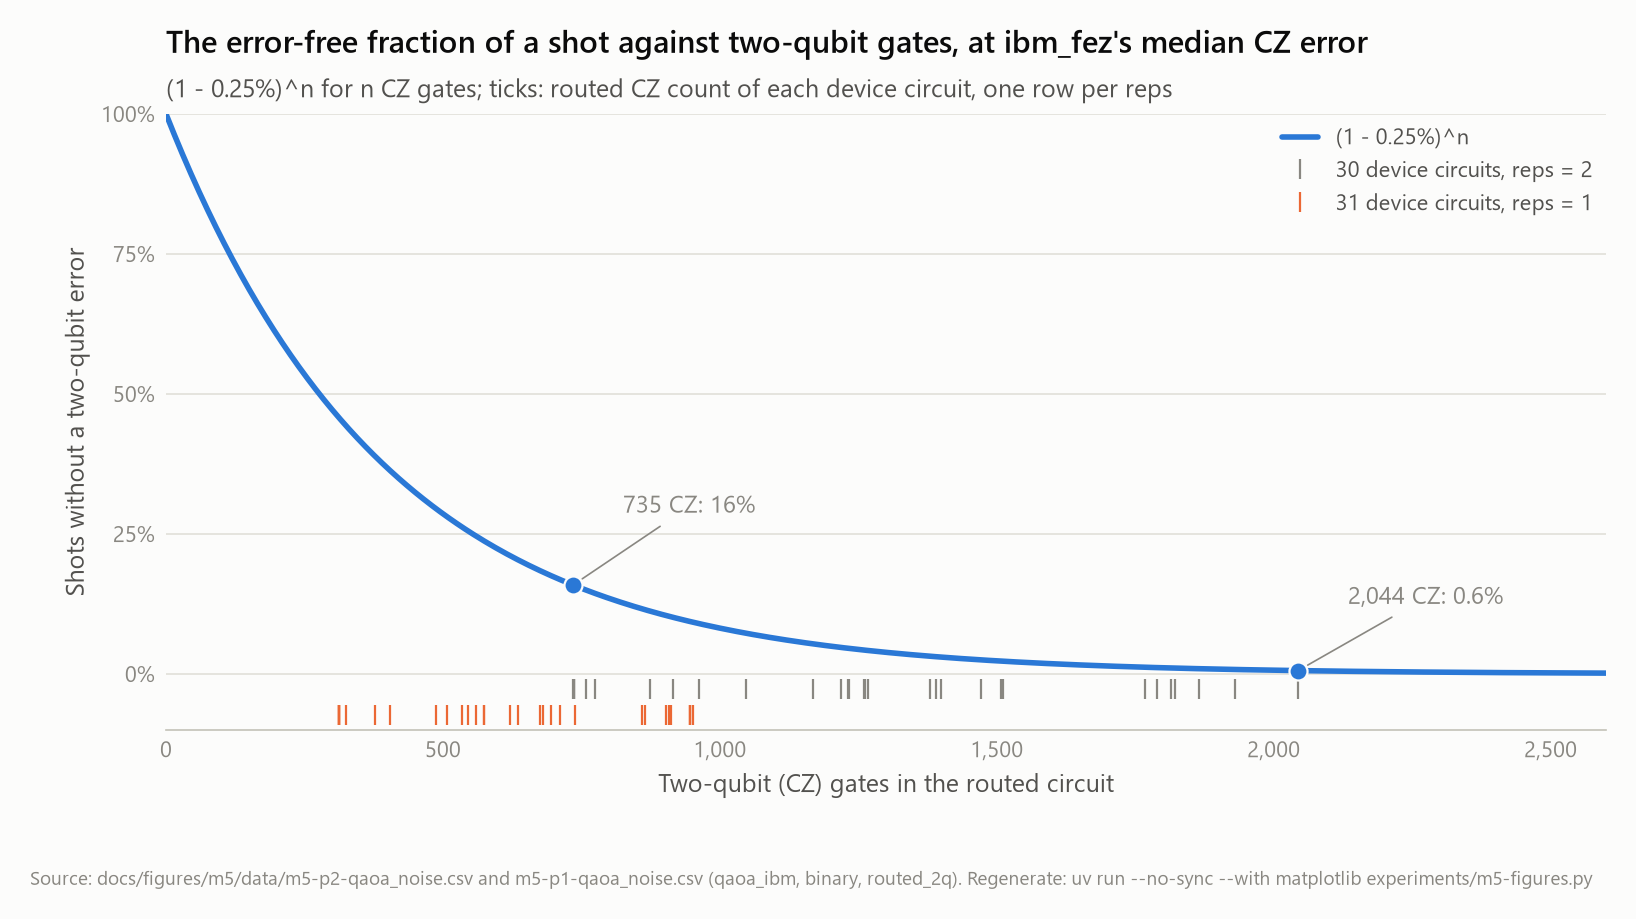
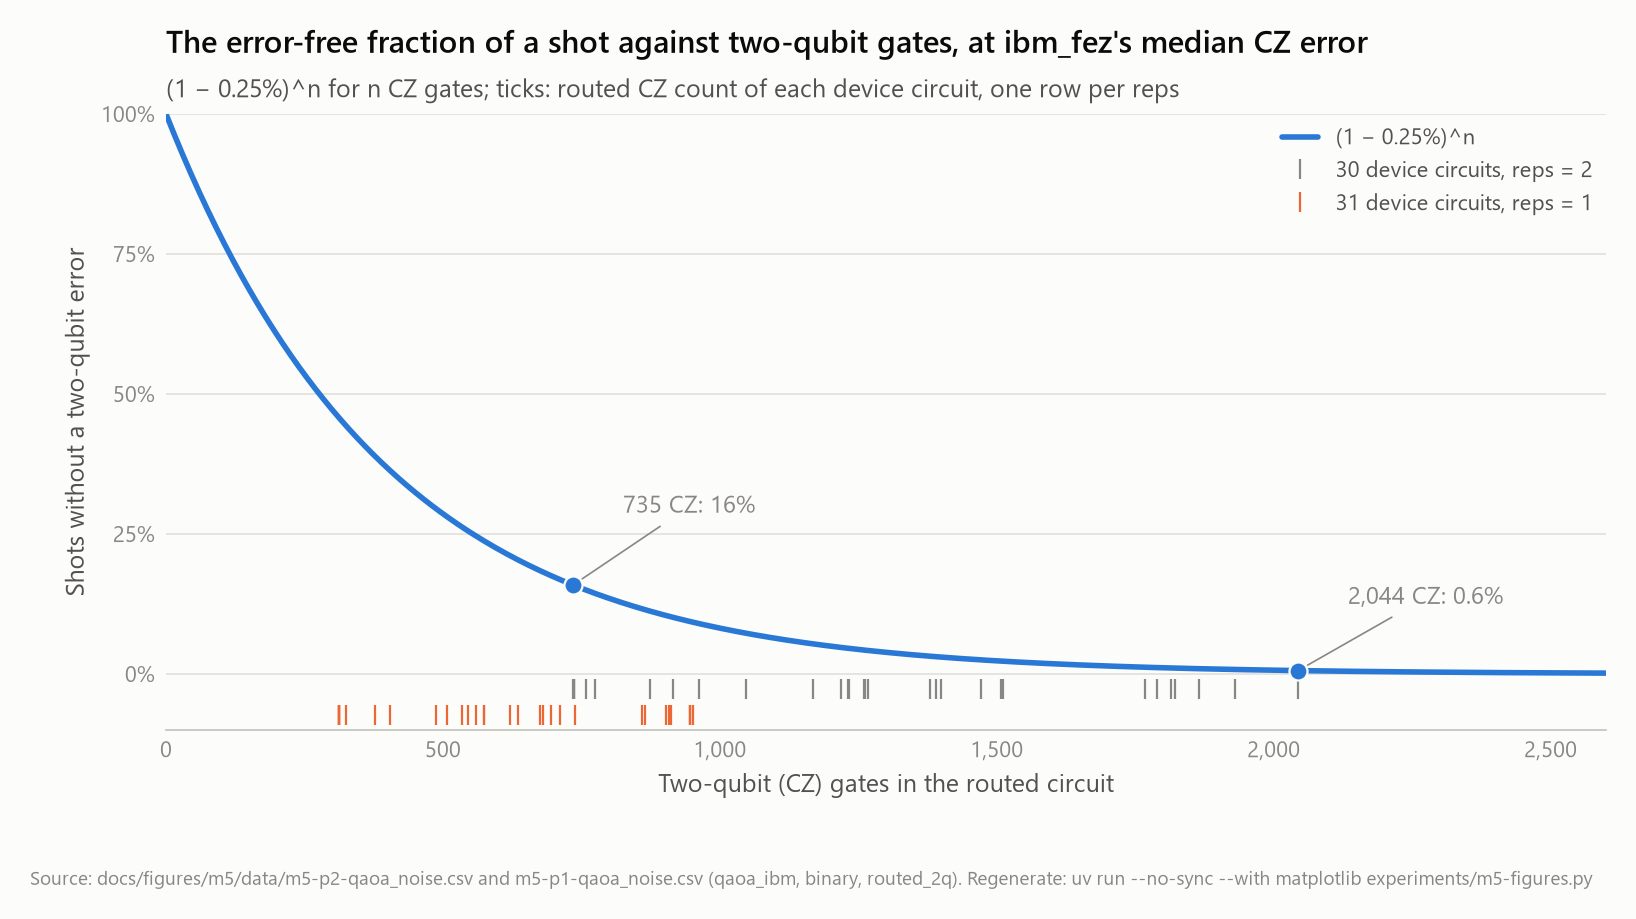
fix(experiments): the M5 figures after an independent fact-check
Captions and labels now say what the data show.

- training cost: the hairline sits at HiGHS's 1 s budget. The 0.24-0.40 s
  it replaced were cell means, not proofs; single runs take 0.03-1.0 s and
  one stops at the budget unproven. Every training is slower than HiGHS on
  its own instance, at least 8 times at reps = 2 and 2 times at reps = 1.
- noise ladder: tied successes are offset by backend so that none hides
  under another, the reps = 1 hairline label no longer covers a point, and
  the noise model lies between the backends on average, not instance by
  instance.
- reps compare: rows that tie on both CZ counts are ordered by name, so
  the figure no longer changes with hash randomisation.
- M4 crossover: margins of 1.16 to 1.2e5 on the exact methods' cells, not
  "one to four orders of magnitude"; "venue minimum" as in the text.
- TTS99 at T0: the caption's leftover fact-check aside is replaced by what
  the figure shows, including tabu at 1,000 reads right of the device.
- uniform baseline, per-instance hardware: the device sits a median 2.1
  times above uniform, three instances at 10-33 times.
- QPU ledger, error-free curve, dynamic range: the per-job limit falls to
  40-57 s for the last nine jobs; readout 1.0-1.1%; minus signs, en dashes
  and no raw column name in the drawn text.

Changed region(s): [[0.1247, 0.0914, 0.717, 0.1219], [0.8417, 0.1219, 0.904, 0.1828]]

diff --git a/experiments/m5_figures/fig_training_cost.py b/experiments/m5_figures/fig_training_cost.py
@@ -1,21 +1,23 @@
 """Training the angles: seconds per QUBO against qubit count.
 
-Caption. Wall-clock seconds to train the QAOA angles of one QUBO (``train_s``)
-against its qubit count (``n_vars``), from ``m5-p2-qaoa_training.csv``. Every
-training is a blue point: the 47 reps = 2 QUBOs of the M5 study, 31 binary and
-16 domain-wall, drawn with the same marker and spread sideways where several
-share a qubit count and a similar time; the line joins the median at each qubit
-count. The y axis is logarithmic, labelled in seconds, minutes, hours and days.
-Training is COBYLA with 200 evaluations of an exact-statevector CVaR at
-alpha = 0.25; 45 of the 47 trainings used all 200 evaluations. Read it as an
-exponential: the median grows about 2.3x per added qubit, from 6 s at 16 qubits
-to 66 min at 24. The hollow marker at 28 qubits is the study's dry run, not a
-training: 413 s per evaluation x 200 evaluations = 23 h and 20 GB of
-statevector, so it was not run. The gray hairline at 0.4 s is the classical
-reference: HiGHS proves the optimum of every one of these instances in under
-0.4 s. The reps = 1 rung's 47 trainings (``m5-p1-qaoa_training.csv``) are drawn
-the same way in orange: 3.6 h in all against 17.3 h at reps = 2, a median of 0.8 s at
-16 qubits and 16 min at 24, and COBYLA stopped before its 200 evaluations in 46 of
+Caption. Wall-clock seconds to train the QAOA angles of one QUBO (``train_s``) against
+its qubit count (``n_vars``), from ``m5-p2-qaoa_training.csv``. Every training is a blue
+point: the 47 reps = 2 QUBOs of the M5 study, 31 binary and 16 domain-wall, drawn with
+the same marker and spread sideways where several share a qubit count and a similar
+time; the line joins the median at each qubit count. The y axis is logarithmic, labelled
+in seconds, minutes, hours and days. Training is COBYLA with 200 evaluations of an
+exact-statevector CVaR at alpha = 0.25; 45 of the 47 trainings used all 200 evaluations.
+Read it as an exponential: the median grows about 2.3x per added qubit, from 6 s at 16
+qubits to 66 min at 24. The hollow marker at 28 qubits is the study's dry run, not a
+training: 413 s per evaluation x 200 evaluations = 23 h and 20 GB of statevector, so it
+was not run. The gray hairline at 1 s is the classical reference: HiGHS, at its 1 s
+budget, has every one of these instances within 1% of the optimum in at most 1.0 s (cell
+means 0.24-0.40 s; one run stopped at the budget without a proof), and every training
+takes longer than HiGHS on the same instance, at least 8 times longer at reps = 2 and 2
+times at reps = 1, each against its own store's HiGHS (1.2 against the reps = 2 store's).
+The reps = 1 rung's 47 trainings (``m5-p1-qaoa_training.csv``) are
+drawn the same way in orange: 3.6 h in all against 17.3 h at reps = 2, a median of 0.8 s
+at 16 qubits and 16 min at 24, and COBYLA stopped before its 200 evaluations in 46 of
 the 47 (31 to 146 evaluations), where at reps = 2 it ran out of evaluations in 45.
 """
 
@@ -43,8 +45,9 @@ DRY_RUN_EVALS = 200
 DRY_RUN_GB = 20
 DRY_RUN_S = DRY_RUN_S_PER_EVAL * DRY_RUN_EVALS  # 82,600 s
 
-# HiGHS proves the optimum of every M5 instance within this wall-clock bound.
-HIGHS_PROOF_S = 0.4
+# HiGHS at its 1 s budget has every M5 instance within 1% of the optimum within this bound
+# (slowest run 1.005 s; m5-p2-cells.csv and the stores).
+HIGHS_PROOF_S = 1.0
 
 X_LIM = (14.8, 28.9)
 Y_LIM = (0.2, 2.5e5)
@@ -143,7 +146,8 @@ def make(data: dict[str, pl.DataFrame], out: Path) -> list[Path]:
     # the 16-qubit swarm, which reaches down to this line at reps = 1.
     ax.axhline(HIGHS_PROOF_S, color=style.CLASSICAL, linewidth=0.8, zorder=1)
     ax.text(16.75, HIGHS_PROOF_S * 1.15,
-            f"HiGHS proves the optimum of every instance in under {HIGHS_PROOF_S} s",
+            f"HiGHS, 1 s budget: every instance within 1% of its optimum in at most "
+            f"{HIGHS_PROOF_S:.1f} s",
             ha="left", va="bottom", fontsize=8, color=style.MUTED, zorder=4)
 
     # The dry run at 28 qubits: a hollow marker, annotated to its left.

diff --git a/experiments/m5_figures/fig_noise_ladder.py b/experiments/m5_figures/fig_noise_ladder.py
@@ -18,7 +18,10 @@ column marks the deepest circuit on which any device job found the optimum. How 
 it: noiselessly, success falls with depth because depth tracks the qubit count; on the
 device, every success sits at or left of the hairline (1,233 CZ at reps = 2, 378 at
 reps = 1), and the reps = 1 circuits sit about half as deep, 313 to 952 CZ against 735 to
-2,044. The noise model lies between the noiseless circuit and the device in both columns.
+2,044. On average the noise model lies between the noiseless circuit and the device in both
+columns (instance by instance it does not always). In the success panels every point is
+offset vertically by its backend (noiseless up, device down, by 0.03) so that ties stay
+visible.
 """
 
 from __future__ import annotations
@@ -42,6 +45,9 @@ BACKENDS = [("qaoa_ideal", style.NOISELESS), ("qaoa_noisy", style.NOISE_MODEL),
 FLOOR = 1e-4  # where a zero feasibility is drawn, hollow
 X_LIM = (200, 2150)
 SIZE = 5.5
+# Vertical offsets in the success panels, so that equal values stay visible (ties are common:
+# the device's success is a multiple of 1/3 or 0/1, and many instances sit at 0 or 1).
+DODGE = {"qaoa_ideal": 0.03, "qaoa_noisy": 0.0, "qaoa_ibm": -0.03}
 
 
 def _ladder(noise: pl.DataFrame) -> pl.DataFrame:
@@ -58,7 +64,8 @@ def _column(ax_s, ax_f, frame: pl.DataFrame, label: str) -> None:
     for solver, color in BACKENDS:
         rows = frame.filter(pl.col("solver") == solver)
         name = style.NAMES[solver]
-        ax_s.plot(rows["cz"].to_list(), rows["p_success_0.01"].to_list(), label=name,
+        ax_s.plot(rows["cz"].to_list(), [v + DODGE[solver] for v in rows["p_success_0.01"]],
+                  label=name,
                   **style.marker_kw(color, "o", SIZE))
         some = rows.filter(pl.col("feasibility") > 0)
         none = rows.filter(pl.col("feasibility") == 0)
@@ -74,7 +81,7 @@ def _column(ax_s, ax_f, frame: pl.DataFrame, label: str) -> None:
         # Left of the line where the column has room (reps = 2), else right of it (reps = 1):
         # the two spots that stay clear of the points.
         left = last - X_LIM[0] > 700
-        ax_s.annotate(f"deepest device success:\n{last:,.0f} CZ", (last, 0.86 if left else 0.62),
+        ax_s.annotate(f"deepest device success:\n{last:,.0f} CZ", (last, 0.86 if left else 0.72),
                       xytext=(-5 if left else 5, 0), textcoords="offset points",
                       ha="right" if left else "left", va="center", fontsize=7.5,
                       color=style.MUTED, linespacing=1.2)
@@ -95,7 +102,7 @@ def make(data: dict[str, pl.DataFrame], out: Path) -> list[Path]:
         _column(axes[0][j], axes[1][j], frame, label)
 
     for ax in axes[0]:
-        ax.set_ylim(-0.05, 1.05)
+        ax.set_ylim(-0.08, 1.08)
         ax.yaxis.set_major_locator(FixedLocator([0.0, 0.25, 0.5, 0.75, 1.0]))
         ax.yaxis.set_major_formatter(FixedFormatter(["0", "25%", "50%", "75%", "100%"]))
         style.finish(ax, grid="y")

diff --git a/experiments/m5_figures/fig_reps_compare.py b/experiments/m5_figures/fig_reps_compare.py
@@ -3,7 +3,8 @@
 Caption. One row per binary-encoded T0 instance that ran on ibm_fez at either depth (31:
 the 30 of reps = 2 and ``D2+D4-2030``, whose reps = 2 gate run was killed, so it ran on the
 device at reps = 1 only), labelled dials-seed and sorted by the routed CZ count of its
-reps = 2 device circuit, shallowest at the top (``D2+D4-2030`` last). In each of the three
+reps = 2 device circuit, shallowest at the top (``D2+D4-2030`` last; ties go by the
+reps = 1 count, then by name). In each of the three
 panels the x axis is success at epsilon = 1%, the share of runs whose best feasible sample
 is within 1% of the proven optimum; the filled marker is reps = 2
 (``m5-p2-qaoa_noise.csv``), the hollow one reps = 1 (``m5-p1-qaoa_noise.csv``), joined by
@@ -14,10 +15,11 @@ reps = 1, so the markers sit at 0, 1/3, 2/3, 1 and at 0 or 1. The panel titles g
 mean success over the instances present at both depths. The right-hand column gives the
 routed CZ count of each device circuit, reps = 2 then reps = 1. How to read it: halving the
 depth halves the CZ count (735-2,044 to 313-952) and costs the noiseless circuit about a
-quarter of its success (mean 0.45 to 0.35 on the 31 instances), while on the device
+fifth of its success (mean 0.45 to 0.35 on the 31 instances), while on the device
 the reps = 1 successes sit on four instances of 313-325 CZ gates and one of 378, where
 reps = 2 had succeeded on 8 instances of 735 to 1,233 gates; the device's mean success
-over the 30 shared instances goes from 0.12 (three jobs each) to 0.17 (one job each).
+over the 30 shared instances goes from 0.12 (three jobs each) to 0.17 (one job each),
+a difference within shot noise.
 """
 
 from __future__ import annotations
@@ -63,7 +65,7 @@ def make(data: dict[str, pl.DataFrame], out: Path) -> list[Path]:
     two, one = _success(data["m5-p2-qaoa_noise"]), _success(data["m5-p1-qaoa_noise"])
     cz2, cz1 = _cz(two), _cz(one)
     instances = sorted(set(cz2) | set(cz1),
-                       key=lambda k: (k not in cz2, cz2.get(k, 0.0), cz1.get(k, 0.0)))
+                       key=lambda k: (k not in cz2, cz2.get(k, 0.0), cz1.get(k, 0.0), k))
     y_of = {k: i for i, k in enumerate(instances)}
     n = len(instances)
 
@@ -101,8 +103,8 @@ def make(data: dict[str, pl.DataFrame], out: Path) -> list[Path]:
     axes[1].set_xlabel("runs within 1% of the optimum")
     # The CZ counts of the device circuits, right of the device panel: reps 2 -> reps 1.
     for k, y in y_of.items():
-        a = f"{cz2[k]:,.0f}" if k in cz2 else "-"
-        b = f"{cz1[k]:,.0f}" if k in cz1 else "-"
+        a = f"{cz2[k]:,.0f}" if k in cz2 else "—"
+        b = f"{cz1[k]:,.0f}" if k in cz1 else "—"
         axes[2].annotate(f"{a} → {b}", (1.0, y), xycoords=("axes fraction", "data"),
                          xytext=(8, 0), textcoords="offset points", ha="left", va="center",
                          fontsize=7, color=style.MUTED)

diff --git a/experiments/m5_figures/fig_error_free.py b/experiments/m5_figures/fig_error_free.py
@@ -1,6 +1,6 @@
 """The error-free fraction of a shot against two-qubit gates, at ibm_fez's median CZ error.
 
-Caption. The curve is (1 - 0.0025)^n: the probability that a shot passes n two-qubit (CZ)
+Caption. The curve is (1 − 0.0025)^n: the probability that a shot passes n two-qubit (CZ)
 gates without a two-qubit error, at 0.25% per gate -- the median CZ error of ibm_fez's
 calibration read after the first pass (properties last updated 2026-10-27 16:32); the next
 morning's calibration (last updated 2026-10-28 09:49) has the same median. The ticks along
@@ -10,9 +10,9 @@ circuits, the ``qaoa_ibm`` binary-encoding rows of
 overlap, so fewer than 30 ticks show. The two labelled points are the shallowest and the
 deepest of them: 735 CZ gates leave 16% of shots error-free, 2,044 leave 0.6%, so the
 study's circuits span exactly the stretch where the curve falls from about one shot in six
-to one in 170. The curve ignores single-qubit and readout errors (readout error is 1.1% per
-qubit on that calibration, so a 16-24 qubit readout is itself wrong 16-23% of the time), so
-it is an upper bound on the shots that survive. The reps = 1 rung's 31 device circuits
+to one in 170. The curve ignores single-qubit and readout errors (readout error is 1.0-1.1% per
+qubit on the two calibrations, so a 16-24 qubit readout is itself wrong 15-23% of the
+time), so it is an upper bound on the shots that survive. The reps = 1 rung's 31 device circuits
 (``m5-p1-qaoa_noise``) form a second, orange rug row: 313 to 952 CZ gates, where the curve
 gives 46% down to 9% of shots error-free, against 16% down to 0.6% for the reps = 2
 circuits.
@@ -60,7 +60,7 @@ def make(data: dict[str, pl.DataFrame], out: Path) -> list[Path]:
 
     xs = list(range(0, X_MAX + 1, 5))
     ax.plot(xs, [_error_free(x) for x in xs], color=style.DEVICE, linewidth=2,
-            label=f"(1 - {P_CZ:.2%})^n")
+            label=f"(1 − {P_CZ:.2%})^n")
 
     # The rug: one short tick per device circuit, in a strip under the 0% line.
     levels = [0.045] if len(rugs) == 1 else [0.066, 0.024]
@@ -95,7 +95,7 @@ def make(data: dict[str, pl.DataFrame], out: Path) -> list[Path]:
     ax.set_yticks(range(0, 101, 25), [f"{v}%" for v in range(0, 101, 25)])
     ax.set_xlabel("Two-qubit (CZ) gates in the routed circuit")
     ax.set_ylabel("Shots without a two-qubit error")
-    style.heading(ax, TITLE, f"(1 - {P_CZ:.2%})^n for n CZ gates; {rug_note}",
+    style.heading(ax, TITLE, f"(1 − {P_CZ:.2%})^n for n CZ gates; {rug_note}",
                   legend_row=False)
     style.finish(ax, grid="y")
     tables = "m5-p2-qaoa_noise.csv" + (" and m5-p1-qaoa_noise.csv" if len(rugs) > 1 else "")

diff --git a/experiments/m5_figures/fig_m4_crossover.py b/experiments/m5_figures/fig_m4_crossover.py
@@ -1,7 +1,7 @@
 """The M4 crossover: the method with the lowest TTS99 on each tier x dials cell.
 
 Caption. A tile grid of the 32 M4 cells: rows are the 16 dial combinations (D1 square-root
-impact, D2 cardinality cap + minimum lot, D3 CVaR risk, D4 all-or-nothing blocks), columns
+impact, D2 cardinality cap + venue minimum, D3 CVaR risk, D4 all-or-nothing blocks), columns
 the tiers T0 (3 assets x 4 buckets) and T1 (5 assets x 8 buckets). Each tile names the
 method with the lowest TTS99 at epsilon = 1% on that cell and, on a second line, that
 TTS99, taking for every solver its best (smallest) TTS99 over the four budgets (0.1, 1, 10,
@@ -20,9 +20,10 @@ dial on: T1 none, D1 and D4 with tabu on domain-wall (0.27, 0.19 and 0.47 s agai
 0.11 s against 0.16 s) and D4 (greedy on binary, 0.089 s against 0.094 s). Every cell with
 D2 or D3 on goes to CP-SAT or HiGHS, as do T0 D1 and both D1+D4 cells, the other three
 cells without D2 and D3. How to read it: the exact methods' times are times to a proven
-optimum; a sampler's TTS99 is the time to be within 1% of it with 99% confidence, and on
-the 27 cells it does not win the gap is one to four orders of magnitude (T0 D3: HiGHS
-0.060 s, the best sampler 114 s).
+optimum; a sampler's TTS99 is the time to be within 1% of it with 99% confidence. On the
+27 cells it does not win, the best sampler is 1.16 times slower (T0 D1: CP-SAT 0.092 s,
+greedy 0.106 s) to 1.2 x 10^5 times slower (T1 D3), and on four T1 cells no sampler
+reaches 1% at all.
 """
 
 from pathlib import Path
@@ -49,7 +50,7 @@ HEADER = 0.9  # the column-label band above the 16 rows, in row units
 TITLE = "The M4 crossover: the method with the lowest TTS99 on each cell"
 SUBTITLE = ("Each tile: the method with the lowest TTS99 at ε = 1%, best over four budgets "
             "and three encodings, and that time")
-SOURCE = ("D1 square-root impact · D2 cardinality cap + minimum lot · D3 CVaR risk · "
+SOURCE = ("D1 square-root impact · D2 cardinality cap + venue minimum · D3 CVaR risk · "
           "D4 all-or-nothing blocks. Budgets 0.1, 1, 10, 60 s; encodings binary, domain-wall, "
           "one-hot.\n"
           "Source: docs/figures/m5/data/m4-cells.csv (HiGHS = exact_pwl_milp, greedy, tabu, SA) "

diff --git a/experiments/m5_figures/fig_qpu_ledger.py b/experiments/m5_figures/fig_qpu_ledger.py
@@ -5,7 +5,8 @@ submission order, from ``m5-hardware-jobs.csv`` (the ledger ``~/.quantic/ibm-quo
 joined with the stores' hardware rows by ``experiments/m5-hardware-jobs.py``, which names
 each job's lane and pass). ``usage_s`` is IBM's QPU charge for a job, the quantum seconds
 it counts against the account; the step rises by that charge at each job. Every job cost
-2 or 3 s against a 60 s per-job limit (``max_execution_time``; 20 s for the smoke job).
+2 or 3 s against a per-job limit (``max_execution_time``) of 60 s, 20 s for the smoke job
+and 57 down to 40 s for the last nine jobs of pass 3, as the cap's remainder shrank.
 The brackets under the axis mark the five runs of the hardware lane: the smoke job of
 2026-10-14 (job 1), the three reps = 2 passes over the 30 runnable instances (two on
 2026-10-27, one on 2026-10-28) and the reps = 1 lane over its 31 instances on 2026-10-28,
@@ -134,7 +135,7 @@ def make(data: dict[str, pl.DataFrame], out: Path) -> list[Path]:
     ax.set_ylabel("QPU seconds, cumulative")
     _mark_ranges(ax, ranges)
 
-    style.heading(ax, TITLE, f"Cumulative usage_s of the {n_jobs} QAOA jobs on ibm_fez, "
+    style.heading(ax, TITLE, f"Cumulative QPU seconds of the {n_jobs} QAOA jobs on ibm_fez, "
                              "in submission order")
     handles = [Line2D([], [], color=style.BLUE, linewidth=2),
                Line2D([], [], color=style.ORANGE, linewidth=2)]

diff --git a/experiments/m5_figures/fig_dynamic_range.py b/experiments/m5_figures/fig_dynamic_range.py
@@ -11,7 +11,7 @@ The two tables are joined on (dials, instance_seed) for ``encoding ==
 binary``. The color is the qubit count (``n_vars``) in four ordinal bins,
 light to dark: 16, 18-20, 21-22, 23-24 qubits. How to read it: the dark
 23-24 qubit points sit at or near zero whatever their dynamic range, the
-light 16 qubit points at or near one; the note gives the Spearman rank
+light 16 qubit points at one but for D1+D2-2026 (0.7); the note gives the Spearman rank
 correlation of the success with each quantity, computed from these 31 points
 (``scipy.stats.spearmanr``): the qubit count tracks the noiseless success
 (-0.77, p = 4e-7), the dynamic range does not (-0.16, p = 0.38). The two
@@ -36,8 +36,8 @@ SOURCE = ("Source: m5-p2-qaoa_training.csv and m5-p2-qaoa_noise.csv (qaoa_ideal 
           "docs/figures/m5/data. "
           "Regenerate: uv run --no-sync --with matplotlib experiments/m5-figures.py")
 # Ordinal qubit-count bins: (legend label, lowest n_vars, highest n_vars, BLUE_RAMP step).
-BINS = [("16 qubits", 16, 16, 250), ("18-20", 18, 20, 400),
-        ("21-22", 21, 22, 550), ("23-24", 23, 24, 700)]
+BINS = [("16 qubits", 16, 16, 250), ("18–20", 18, 20, 400),
+        ("21–22", 21, 22, 550), ("23–24", 23, 24, 700)]
 # Direct labels, keyed by (dials, instance_seed): x offset in points and the text anchor.
 LABELLED = {("D1+D4", 2030): (-8, "right"), ("D1", 2029): (8, "left")}
 

diff --git a/experiments/m5_figures/fig_tts_t0.py b/experiments/m5_figures/fig_tts_t0.py
@@ -22,13 +22,10 @@ training, transpilation or queue time, so the gap understates the real one.
 Where the device succeeds at all it needs 22.7 s (D1+D2+D4 and D2+D4), 28.4 s
 (D1+D2), 63.1 s (D2) and 133.5 s (D1+D4 and D4); none and D1 are censored. Greedy
 finds the optimum in 0.16-0.44 s on every cell, simulated annealing in
-0.57-6.6 s, tabu in 42-74 s (1,000 reads are slow for tabu). The M4 cells
-disagree with the statement that HiGHS proves every T0 cell in under 0.5 s:
-their best-over-budgets TTS99 is 0.09-0.79 s and three cells exceed 0.5 s
-(none 0.52 s, D1+D2 0.63 s, D2 0.79 s); the 0.24-0.40 s quoted by the M5
-result is the M5 store's own HiGHS rerun at the 1 s budget, not these cells.
-CP-SAT sound is faster than HiGHS on all eight cells, 0.04-0.16 s, which
-confirms "faster still on most T0 cells".
+0.57-6.6 s, tabu in 42-74 s: 1,000 reads are slow for tabu, whose marker sits right
+of the device's on D2, D1+D2, D2+D4 and D1+D2+D4. HiGHS's best-over-budgets
+TTS99 is 0.09-0.79 s (above 0.5 s on none, D1+D2 and D2), and the sound CP-SAT
+is faster than HiGHS on all eight cells, at 0.04-0.16 s.
 """
 
 from pathlib import Path

diff --git a/experiments/m5_figures/fig_uniform_baseline.py b/experiments/m5_figures/fig_uniform_baseline.py
@@ -11,9 +11,10 @@ parsing ``hw_feasible`` such as "26+20+29" as the per-job counts; an instance wi
 feasible sample in any job (3 of the 30) is drawn hollow at the floor of 0.001%. Aqua: the
 same circuit simulated without noise, ``ratio_ideal`` times ``uniform_frac``. The diagonal
 ``y = x`` is what uniform random bitstrings give; the two fainter diagonals are 10 and 100
-times that. Read it as: the device points hug the uniform line -- pooled over the 90 jobs,
-462 feasible samples in 90,000 shots against 233.3 expected from uniform bitstrings, a
-ratio of 1.98 -- while the noiseless circuit sits about 50 times above it (median ratio
+times that. Read it as: the device points sit just above the uniform line -- a median
+2.1 times it per instance, three instances at 10 to 33 times, and 1.98 pooled (462
+feasible samples in 90,000 shots against 233.3 expected from uniform bitstrings) --
+while the noiseless circuit sits about 50 times above it (median ratio
 50.3 over the 30 instances, from 1.8 on D1+D2-2030 to 4,515 on D4-2026, where a single
 feasible device sample in 3,000 shots is already 33 times the uniform rate).
 """

diff --git a/experiments/m5_figures/fig_hardware_per_instance.py b/experiments/m5_figures/fig_hardware_per_instance.py
@@ -15,7 +15,7 @@ feasible share of all 2^16 bitstrings) for the six 16-qubit instances, estimated
 "optimum found in k of n jobs" marks the rows where k of the n jobs returned at least
 one feasible sample within 1 % of the proven optimum (``hw_success``); the other 22
 rows found none. How to read it: feasible samples are a few per thousand everywhere,
-close to what uniform random bitstrings would give (mean 5.13 per 1,000 against a
+about twice what uniform random bitstrings would give (mean 5.13 per 1,000 against a
 uniform expectation of 2.59; the largest bar, 25.0 on D1+D2-2030, sits at its uniform
 expectation of 25.3), and the eight instances with a success lie at 735 to 1,233 CZ
 gates, seven of them in the ten shallowest rows. From 1,261 CZ gates down no job found
